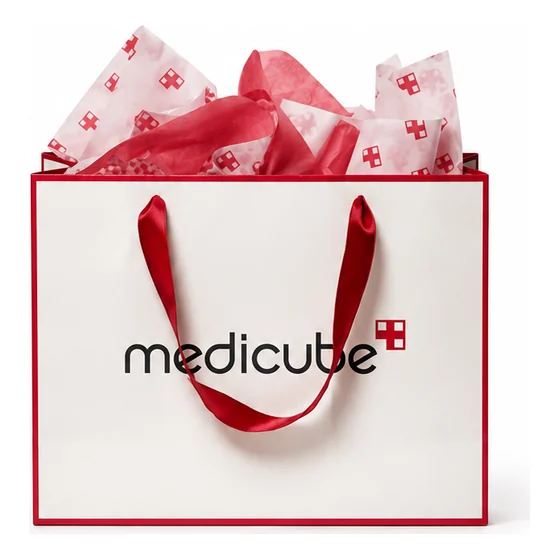
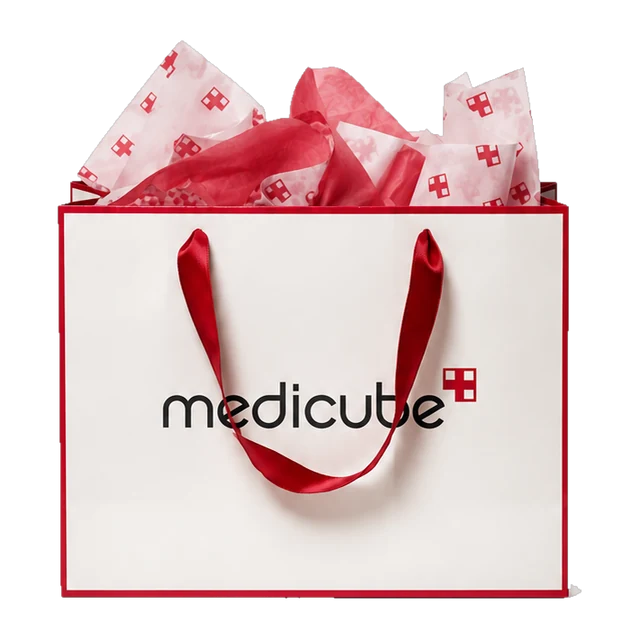
Bolsas de marca recortadas y flotantes, sin el contador de productos
Las fotos de las bolsas venían sobre fondo blanco de estudio. Se les
recorta el fondo con alfa real mediante relleno por contigüidad desde
las esquinas: así se va el blanco sin perforar el blanco de la propia
bolsa, que queda encerrado por su borde de color. Una segunda pasada
acotada a la mitad inferior quita la sombra de estudio, y se conserva
solo la silueta más grande para descartar restos sueltos.

En pantalla van sin caja ni borde, con doble drop-shadow que sigue la
silueta y se levantan al pasar el cursor, para el efecto flotante.
Se quita la cantidad de productos debajo de cada marca.

Changed region(s): [[0.0304, 0.0304, 0.9107, 0.9714]]

diff --git a/Lume Beauty.dc.html b/Lume Beauty.dc.html
@@ -3,7 +3,7 @@
 <head>
 <meta charset="utf-8">
 <meta name="viewport" content="width=device-width, initial-scale=1">
-<script>window.__DC_BUILD="a6ce984d6d"</script>
+<script>window.__DC_BUILD="82604a6544"</script>
 <script src="./support.js"></script>
 </head>
 <body>
@@ -204,11 +204,11 @@ input::placeholder{color:#6f5650;letter-spacing:0.12em}
         <p style="margin:14px 0 0;max-width:50ch;font-size:13px;line-height:1.55;color:#6f5650">Estas son las marcas que hoy tenemos en el catálogo.</p>
         <div style="display:grid;grid-template-columns:repeat(auto-fit,minmax(min(100%,300px),1fr));gap:13px;margin-top:30px">
           <sc-for list="{{ brands }}" as="b" hint-placeholder-count="3">
-            <button onClick="{{ b.open }}" style="text-align:left;border:0;border-radius:4px;background:#ece1d9;padding:28px 26px 24px;display:flex;flex-direction:column;gap:18px;color:#3f2a26;transition:background .3s" style-hover="background:#e6d7cd">
-              <span style="position:relative;display:block;width:100%;aspect-ratio:1 / 1;max-height:260px;border-radius:3px;overflow:hidden;background:#fff">
-                <img src="{{ b.bag }}" alt="{{ b.alt }}" loading="lazy" style="position:absolute;inset:0;width:100%;height:100%;object-fit:contain;transition:transform .5s cubic-bezier(.2,.7,.2,1)" style-hover="transform:scale(1.04)">
+            <button onClick="{{ b.open }}" aria-label="{{ b.ariaLabel }}" style="border:0;background:none;padding:10px 6px 4px;display:flex;flex-direction:column;align-items:center;gap:18px;color:#3f2a26;cursor:pointer">
+              <span style="position:relative;display:block;width:100%;aspect-ratio:1 / 1;max-height:280px">
+                <img src="{{ b.bag }}" alt="{{ b.alt }}" loading="lazy" style="position:absolute;inset:0;width:100%;height:100%;object-fit:contain;filter:drop-shadow(0 18px 22px rgba(92,49,41,0.20)) drop-shadow(0 4px 7px rgba(92,49,41,0.10));transition:transform .45s cubic-bezier(.2,.7,.2,1),filter .45s" style-hover="transform:translateY(-7px) scale(1.03);filter:drop-shadow(0 28px 34px rgba(92,49,41,0.26)) drop-shadow(0 8px 12px rgba(92,49,41,0.13))">
               </span>
-              <span style="display:flex;justify-content:space-between;width:100%;font-size:10px;letter-spacing:0.16em"><span>{{ b.countLabel }}</span><span>VER PRODUCTOS&nbsp;&nbsp;→</span></span>
+              <span style="font-size:10px;letter-spacing:0.16em;color:#4a3530">VER PRODUCTOS&nbsp;&nbsp;→</span>
             </button>
           </sc-for>
         </div>
@@ -509,7 +509,7 @@ class Component extends DCLogic {
       });
     }
 
-    const brands = d.brands.map(b => ({ name: b.name, bag: b.bag, alt: 'Bolsa de ' + b.name, countLabel: brandCount(b), open: go('catalog', { cat: 'all', brand: b.id, coll: null, query: '' }) }));
+    const brands = d.brands.map(b => ({ name: b.name, bag: b.bag, alt: 'Bolsa de ' + b.name, ariaLabel: 'Ver productos de ' + b.name, countLabel: brandCount(b), open: go('catalog', { cat: 'all', brand: b.id, coll: null, query: '' }) }));
 
     const favs = {
       items: favItems, hasItems: favItems.length > 0, isEmpty: !!s.data && favItems.length === 0,

diff --git a/index.html b/index.html
@@ -3,7 +3,7 @@
 <head>
 <meta charset="utf-8">
 <meta name="viewport" content="width=device-width, initial-scale=1">
-<script>window.__DC_BUILD="a6ce984d6d"</script>
+<script>window.__DC_BUILD="82604a6544"</script>
 <script src="./support.js"></script>
 </head>
 <body>
@@ -204,11 +204,11 @@ input::placeholder{color:#6f5650;letter-spacing:0.12em}
         <p style="margin:14px 0 0;max-width:50ch;font-size:13px;line-height:1.55;color:#6f5650">Estas son las marcas que hoy tenemos en el catálogo.</p>
         <div style="display:grid;grid-template-columns:repeat(auto-fit,minmax(min(100%,300px),1fr));gap:13px;margin-top:30px">
           <sc-for list="{{ brands }}" as="b" hint-placeholder-count="3">
-            <button onClick="{{ b.open }}" style="text-align:left;border:0;border-radius:4px;background:#ece1d9;padding:28px 26px 24px;display:flex;flex-direction:column;gap:18px;color:#3f2a26;transition:background .3s" style-hover="background:#e6d7cd">
-              <span style="position:relative;display:block;width:100%;aspect-ratio:1 / 1;max-height:260px;border-radius:3px;overflow:hidden;background:#fff">
-                <img src="{{ b.bag }}" alt="{{ b.alt }}" loading="lazy" style="position:absolute;inset:0;width:100%;height:100%;object-fit:contain;transition:transform .5s cubic-bezier(.2,.7,.2,1)" style-hover="transform:scale(1.04)">
+            <button onClick="{{ b.open }}" aria-label="{{ b.ariaLabel }}" style="border:0;background:none;padding:10px 6px 4px;display:flex;flex-direction:column;align-items:center;gap:18px;color:#3f2a26;cursor:pointer">
+              <span style="position:relative;display:block;width:100%;aspect-ratio:1 / 1;max-height:280px">
+                <img src="{{ b.bag }}" alt="{{ b.alt }}" loading="lazy" style="position:absolute;inset:0;width:100%;height:100%;object-fit:contain;filter:drop-shadow(0 18px 22px rgba(92,49,41,0.20)) drop-shadow(0 4px 7px rgba(92,49,41,0.10));transition:transform .45s cubic-bezier(.2,.7,.2,1),filter .45s" style-hover="transform:translateY(-7px) scale(1.03);filter:drop-shadow(0 28px 34px rgba(92,49,41,0.26)) drop-shadow(0 8px 12px rgba(92,49,41,0.13))">
               </span>
-              <span style="display:flex;justify-content:space-between;width:100%;font-size:10px;letter-spacing:0.16em"><span>{{ b.countLabel }}</span><span>VER PRODUCTOS&nbsp;&nbsp;→</span></span>
+              <span style="font-size:10px;letter-spacing:0.16em;color:#4a3530">VER PRODUCTOS&nbsp;&nbsp;→</span>
             </button>
           </sc-for>
         </div>
@@ -509,7 +509,7 @@ class Component extends DCLogic {
       });
     }
 
-    const brands = d.brands.map(b => ({ name: b.name, bag: b.bag, alt: 'Bolsa de ' + b.name, countLabel: brandCount(b), open: go('catalog', { cat: 'all', brand: b.id, coll: null, query: '' }) }));
+    const brands = d.brands.map(b => ({ name: b.name, bag: b.bag, alt: 'Bolsa de ' + b.name, ariaLabel: 'Ver productos de ' + b.name, countLabel: brandCount(b), open: go('catalog', { cat: 'all', brand: b.id, coll: null, query: '' }) }));
 
     const favs = {
       items: favItems, hasItems: favItems.length > 0, isEmpty: !!s.data && favItems.length === 0,

diff --git a/BrandStrip.dc.html b/BrandStrip.dc.html
@@ -7,18 +7,17 @@
 </head>
 <body>
 <x-dc>
-<section data-screen-label="Marcas" style="padding:clamp(40px,5vw,72px) clamp(18px,2.5vw,38px);background:#f3eae4;border-top:1px solid #e3d4ca;font-family:'Jost',sans-serif;color:#3f2a26">
+<section data-screen-label="Marcas" style="padding:clamp(40px,5vw,72px) clamp(18px,2.5vw,38px) clamp(46px,5.5vw,80px);background:#f3eae4;border-top:1px solid #e3d4ca;font-family:'Jost',sans-serif;color:#3f2a26">
   <div style="display:flex;flex-wrap:wrap;justify-content:space-between;align-items:baseline;gap:12px 20px">
     <h2 style="margin:0;font-weight:400;font-size:12.5px;letter-spacing:0.2em">MARCAS DEL CATÁLOGO</h2>
     <button onClick="{{ br.viewAll }}" style="background:none;border:0;padding:4px 0;font-size:10px;letter-spacing:0.16em;color:#3f2a26;white-space:nowrap" style-hover="color:#a87a6e">VER TODAS LAS MARCAS&nbsp;&nbsp;→</button>
   </div>
-  <div style="display:grid;grid-template-columns:repeat(auto-fit,minmax(min(100%,170px),1fr));gap:9px;margin-top:20px">
+  <div style="display:grid;grid-template-columns:repeat(auto-fit,minmax(min(100%,150px),1fr));gap:clamp(8px,2vw,28px);margin-top:clamp(16px,2.4vw,30px)">
     <sc-for list="{{ br.items }}" as="b" hint-placeholder-count="3">
-      <button onClick="{{ b.open }}" aria-label="{{ b.ariaLabel }}" style="border:1px solid #e3d4ca;border-radius:4px;background:#f8f1ec;display:flex;flex-direction:column;align-items:center;gap:8px;padding:14px 14px 16px;color:#3f2a26;cursor:pointer;transition:background .3s,border-color .3s" style-hover="background:#efe3db;border-color:#d6bfb3">
-        <span style="position:relative;display:block;width:100%;aspect-ratio:1 / 1;overflow:hidden;border-radius:3px;background:#fff">
-          <img src="{{ b.bag }}" alt="{{ b.alt }}" loading="lazy" style="position:absolute;inset:0;width:100%;height:100%;object-fit:contain;transition:transform .5s cubic-bezier(.2,.7,.2,1)" style-hover="transform:scale(1.05)">
+      <button onClick="{{ b.open }}" aria-label="{{ b.ariaLabel }}" style="display:block;width:100%;background:none;border:0;padding:0;cursor:pointer">
+        <span style="position:relative;display:block;width:100%;aspect-ratio:1 / 1">
+          <img src="{{ b.bag }}" alt="{{ b.alt }}" loading="lazy" style="position:absolute;inset:0;width:100%;height:100%;object-fit:contain;filter:drop-shadow(0 16px 20px rgba(92,49,41,0.20)) drop-shadow(0 4px 6px rgba(92,49,41,0.10));transition:transform .45s cubic-bezier(.2,.7,.2,1),filter .45s" style-hover="transform:translateY(-6px) scale(1.035);filter:drop-shadow(0 26px 30px rgba(92,49,41,0.26)) drop-shadow(0 7px 10px rgba(92,49,41,0.13))">
         </span>
-        <span style="font-size:9.5px;letter-spacing:0.16em;color:#8a6d65">{{ b.countLabel }}</span>
       </button>
     </sc-for>
   </div>
